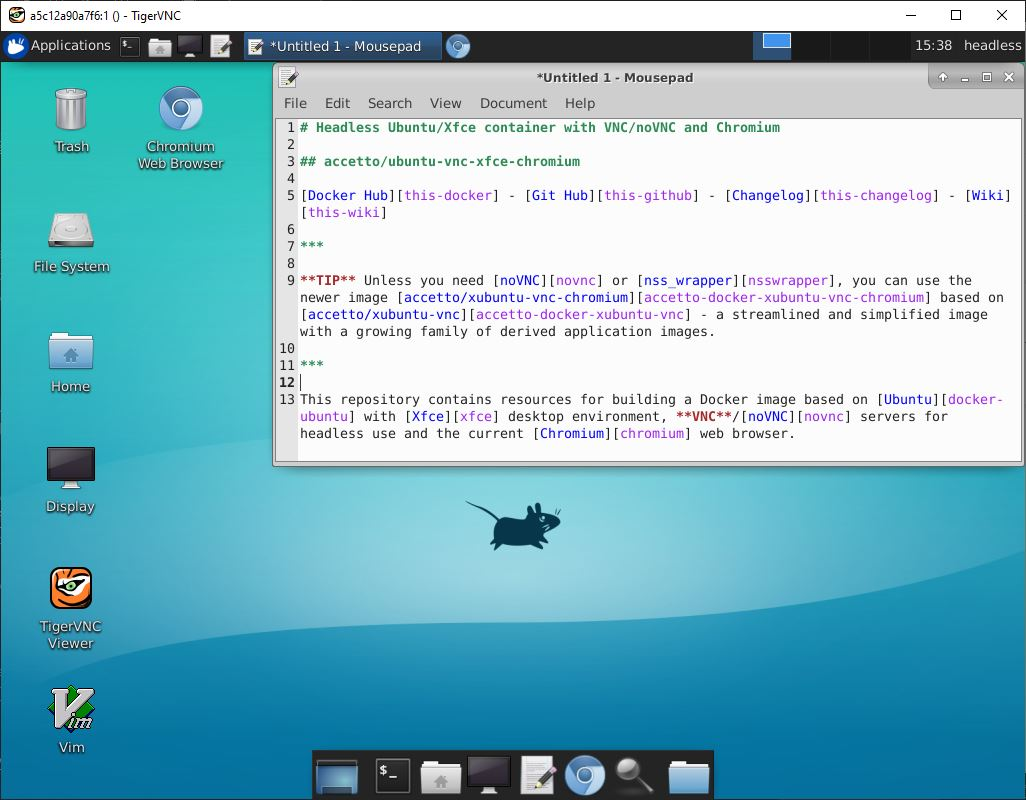
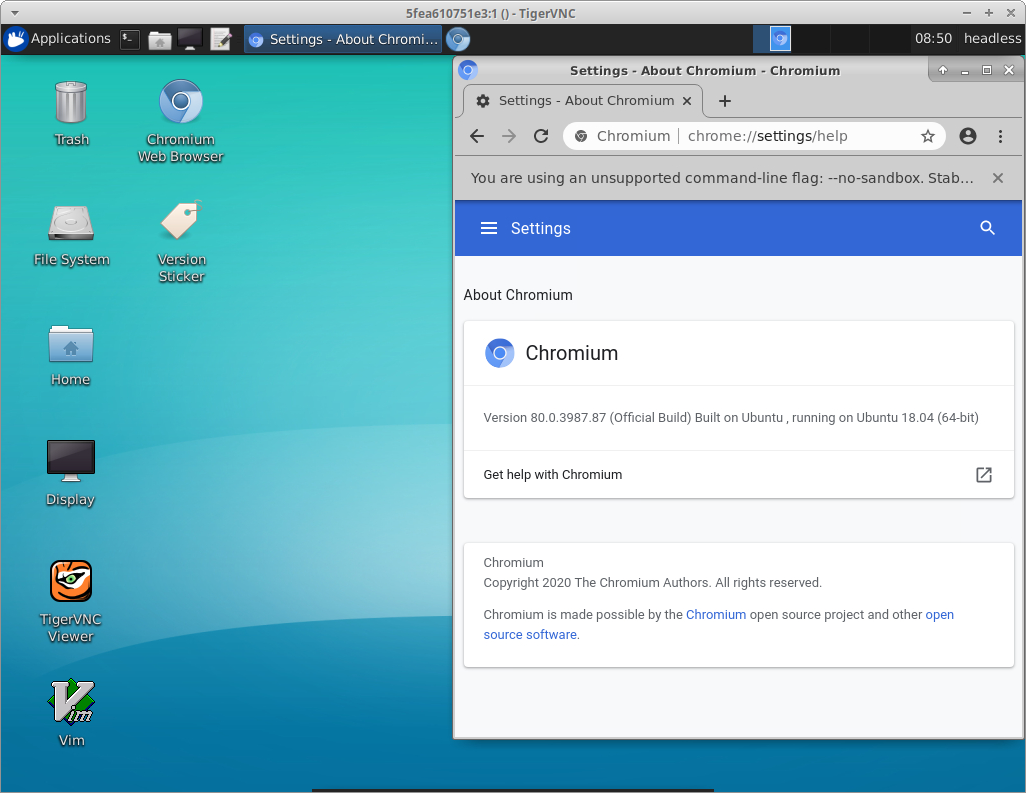
Release 20.02.1

diff --git a/README.md b/README.md
@@ -22,6 +22,12 @@
 
 ***
 
+**WARNING** for Windows users
+
+**Docker Desktop** (Docker for Windows) version **2.2.0.0** has introduced a new way of working with host's files. Unfortunately even the current version **2.2.0.3** leaves several issues with **bind mounts** unresolved. For example, I've found that **Firefox profiles** stored in bound host's folders don't persist modifications correctly. Firefox profiles stored in containers itself (writable layer) or on Docker managed volumes work correctly. If you need to use bind mounts, I wouldn't recommend upgrading to version 2.2 yet, because downgrading is not possible. The only way is to completely re-install the last working version **2.1.0.5**. However, you'll loose all the images and containers, so backup them first.
+
+***
+
 This repository contains resources for building a Docker image based on [Ubuntu][docker-ubuntu] with [Xfce][xfce] desktop environment, **VNC**/[noVNC][novnc] servers for headless use and the current [Chromium][chromium] web browser.
 
 The image can be successfully built and used on Linux, Windows, Mac and NAS devices. It has been tested with [Docker Desktop][docker-desktop] on [Ubuntu flavours][ubuntu-flavours], [Windows 10][docker-for-windows] and [Container Station][container-station] from [QNAP][qnap].
@@ -297,6 +303,6 @@ Credit goes to all the countless people and companies who contribute to open sou
 
 <!-- latest tag badges -->
 
-[badge-VERSION_STICKER_LATEST]: https://badgen.net/badge/version%20sticker/ubuntu18.04.3-chromium79.0.3945.130/blue
+[badge-VERSION_STICKER_LATEST]: https://badgen.net/badge/version%20sticker/ubuntu18.04.3-chromium80.0.3987.87/blue
 
 [badge-github-commit-latest]: https://images.microbadger.com/badges/commit/accetto/ubuntu-vnc-xfce-chromium.svg

diff --git a/CHANGELOG.md b/CHANGELOG.md
@@ -6,6 +6,13 @@
 
 ***
 
+### Release 20.02.1
+
+- Chromium Browser **80.0.3987.87**
+- desktop launcher for version sticker script (verbose) (inherited from the base)
+- container screenshot updated
+- **README** updated
+
 ### Release 20.02
 
 - Chromium Browser **79.0.3945.130**
